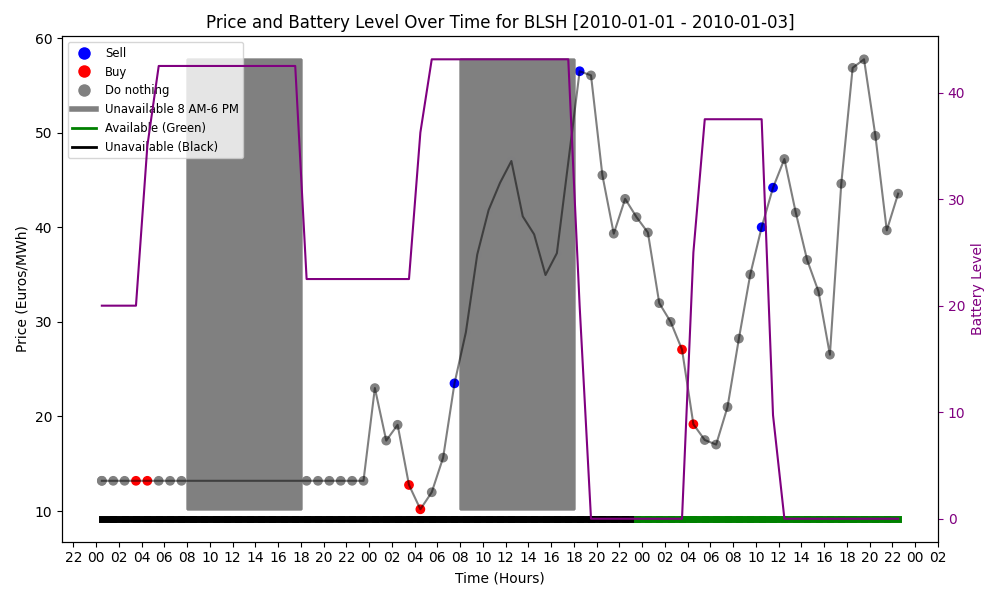
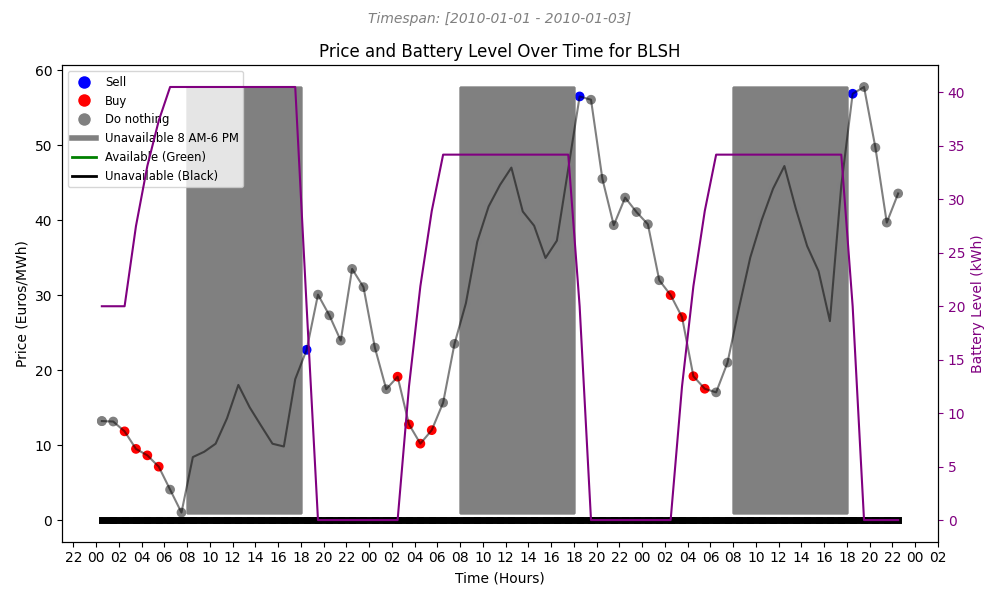
Fix price stuff

diff --git a/baseline.py b/baseline.py
@@ -34,15 +34,17 @@ def validate_agent(env: Env, agent: Type[QLearningAgent or BuyLowSellHigh or EMA
         # Loop until the episode is done
         while not done:
             # Choose an action
-            action = agent.choose_action(state) if rl else agent.choose_action(env.get_current_price(_['step'] == 0), state)
+            action = agent.choose_action(state) if rl else agent.choose_action(env.get_current_price(), state)
             # Get datetime
-            date = datetime.strptime(f"{env.data.iloc[_['step']]['date']} {int(state[1])-1:02d}:30:00", "%Y-%m-%d %H:%M:%S")
+            first = state[1] + _['step'] == 0
+            time = int(state[1]) if not first else 1
+            date = datetime.strptime(f"{env.data.iloc[_['step']]['date']} {time-1:02d}:30:00", "%Y-%m-%d %H:%M:%S")
             # Log current state and action if last episode
             if episode == NUM_EPISODES - 1:
                 log_env['battery'].append(state[0])
                 log_env['availability'].append(state[2])
                 log_env['action'].append(action)
-                log_env['price'].append(env.get_current_price(_['step'] == 0))
+                log_env['price'].append(env.get_current_price())
                 log_env['date'].append(date)                
             # Take a step
             state, reward, done, _ = env.step(action)

diff --git a/ElectricCarEnv.py b/ElectricCarEnv.py
@@ -104,17 +104,17 @@ class ElectricCarEnv(gym.Env):
         # Generate a random car availability
         self.car_available = np.random.choice([0, 1])
         # Initialize the state
-        self.state = np.array([self.battery_level, 1, self.car_available])
+        self.state = np.array([self.battery_level, self.time_of_day, self.car_available])
 
         return self.state
 
-    def get_current_price(self, first = False) -> float:
+    def get_current_price(self) -> float:
         """ Returns the current electricity price.
 
-        Args:
-            first (bool, optional): Whether to return the first price of the first day. Defaults to False.
-        
         Returns:
             float: The current electricity price.
         """
-        return self.data.iloc[self.current_step]["H" + ("1" if first else str(self.time_of_day))]
+        if not (self.time_of_day + self.current_step):
+            return self.data.iloc[0]["H1"]
+        else:
+            return self.data.iloc[self.current_step]["H" + ("0" if not (self.time_of_day + self.current_step) else str(self.time_of_day))]

diff --git a/algorithms.py b/algorithms.py
@@ -201,24 +201,17 @@ class BuyLowSellHigh:
       # Choose the action 
 
       # Buy in the morning
-      if 4 <= state[1] <= 5:
+      if 3 <= state[1] <= 6:
           # If it is a new day, buy one seventh of the max battery
-          self.action -= (self.max_battery - state[0]) / 2
+          self.action -= (self.max_battery - state[0]) / 4
           self.amount = self.action
           # Append the action to the history
-          self.buy = 2 * price
+          self.buy = 2 * price / 0.9
       # Sell in the evening
       elif 7 <= state[1] <= 20 and price >= self.buy:
           self.action = state[0]
           
       return self.action
-  
-class Sell:
-    def __init__(self):
-        self.max_battery = 50
-
-    def choose_action(self, state: list) -> float:
-        return state[0]
 
 class QNetwork(nn.Module):
     """
